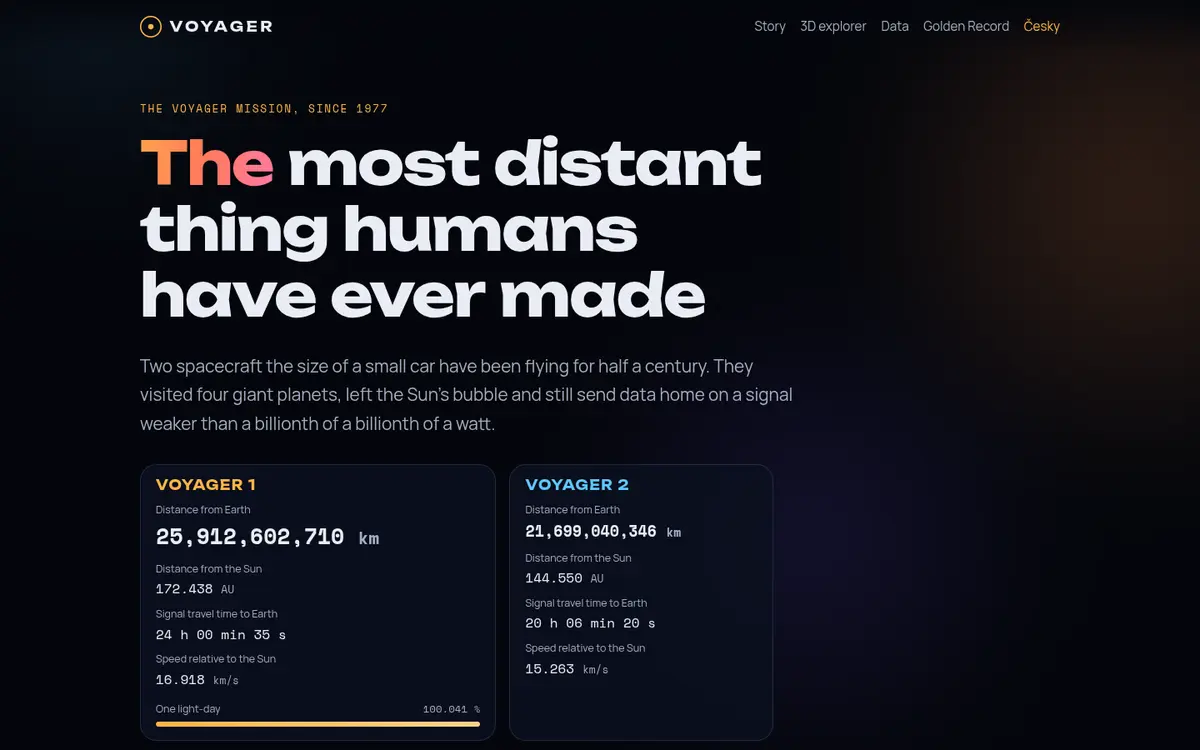
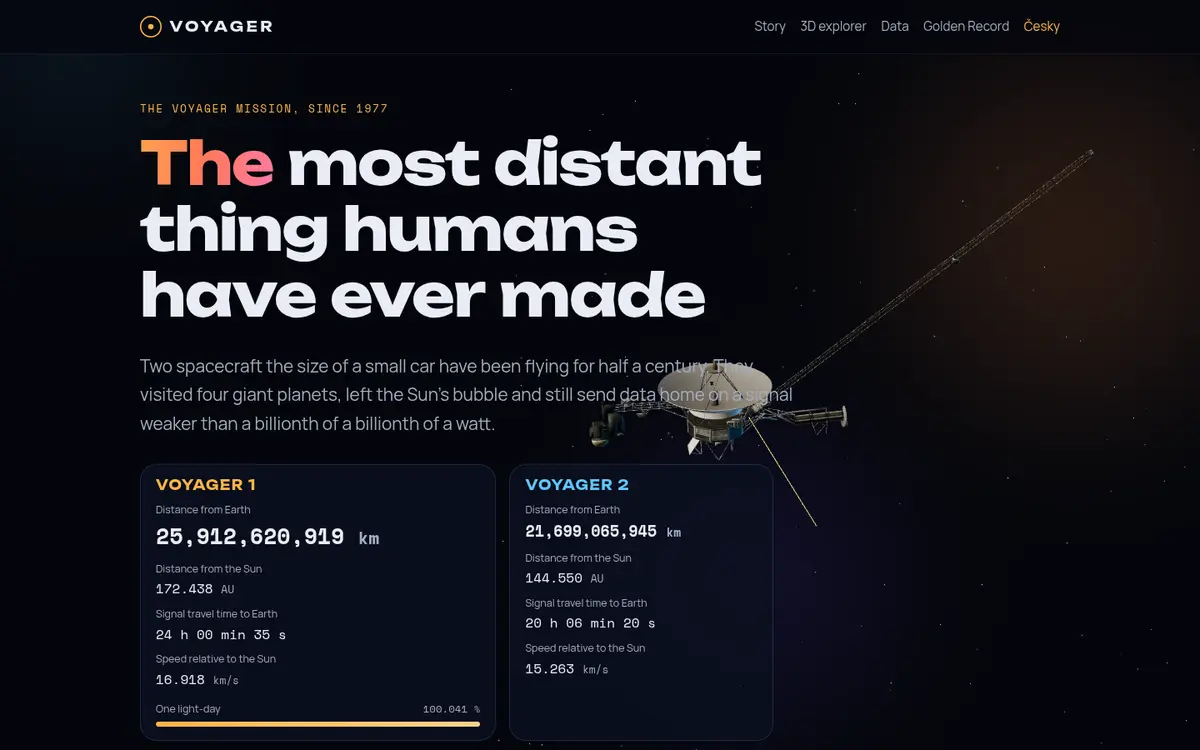
fix: keep hero probe clear of the headline text

diff --git a/src/scenes/HeroScene.tsx b/src/scenes/HeroScene.tsx
@@ -12,7 +12,7 @@ function Probe({ still }: { still: boolean }) {
   const { viewport, pointer } = useThree();
   // Fit the model to the visible area so it never clips at narrow widths.
   const size = Math.min(5.2, viewport.width * 0.7, viewport.height * 0.7);
-  const offsetX = viewport.width > viewport.height ? viewport.width * 0.14 : 0;
+  const offsetX = viewport.width > viewport.height ? viewport.width * 0.22 : 0;
   useFrame((_, dt) => {
     if (!ref.current || still) return;
     ref.current.rotation.y += dt * 0.1;
@@ -21,7 +21,7 @@ function Probe({ still }: { still: boolean }) {
   });
   return (
     <Float enabled={!still} speed={1.2} rotationIntensity={0.25} floatIntensity={0.6}>
-      <group ref={ref} position={[offsetX, 0.5, 0]} rotation={[0.3, -0.9, 0.1]}>
+      <group ref={ref} position={[offsetX, 0.8, 0]} rotation={[0.3, -0.9, 0.1]}>
         <VoyagerModel size={size} />
       </group>
     </Float>
